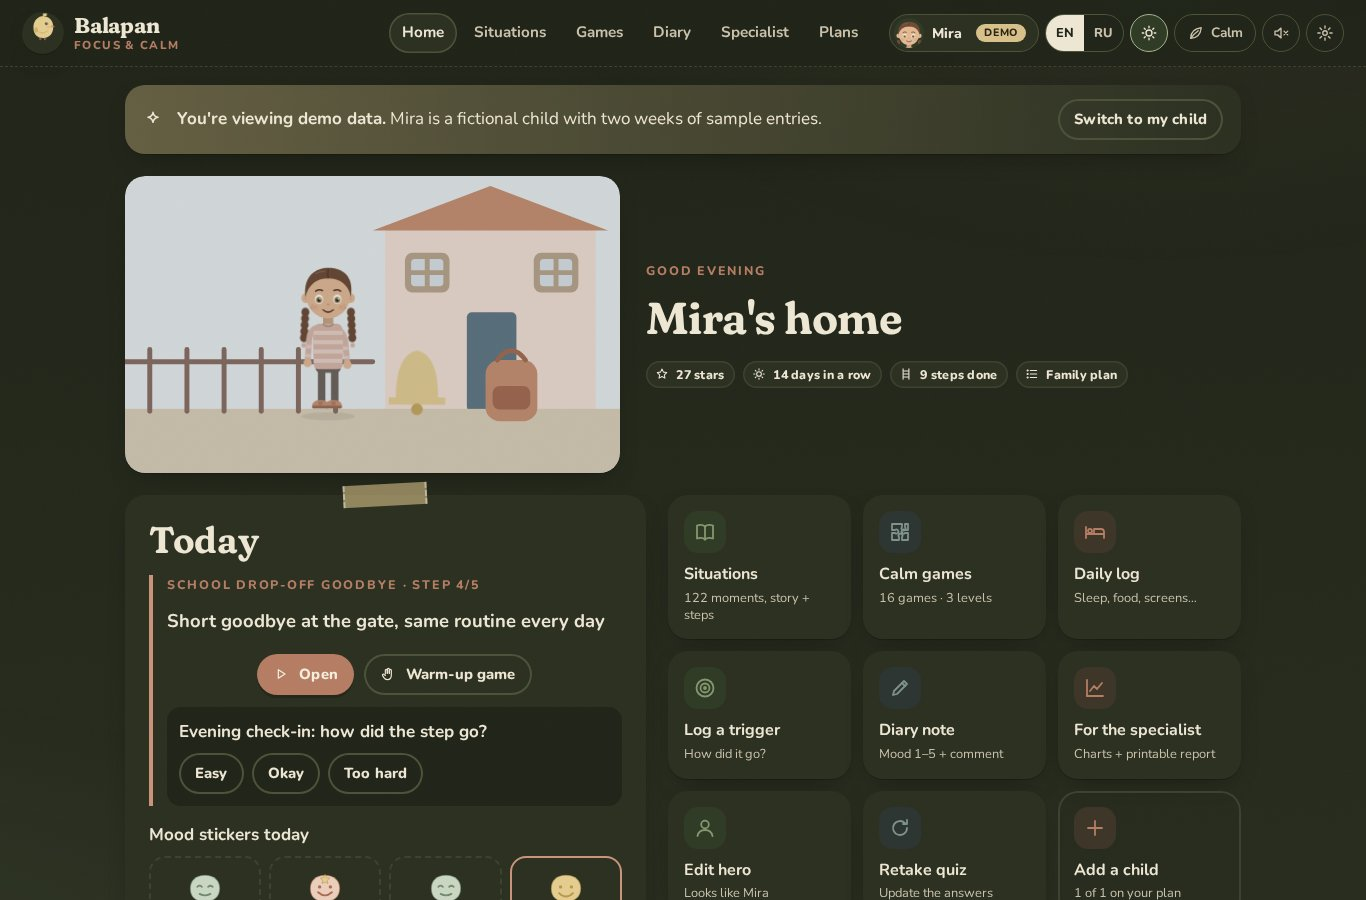
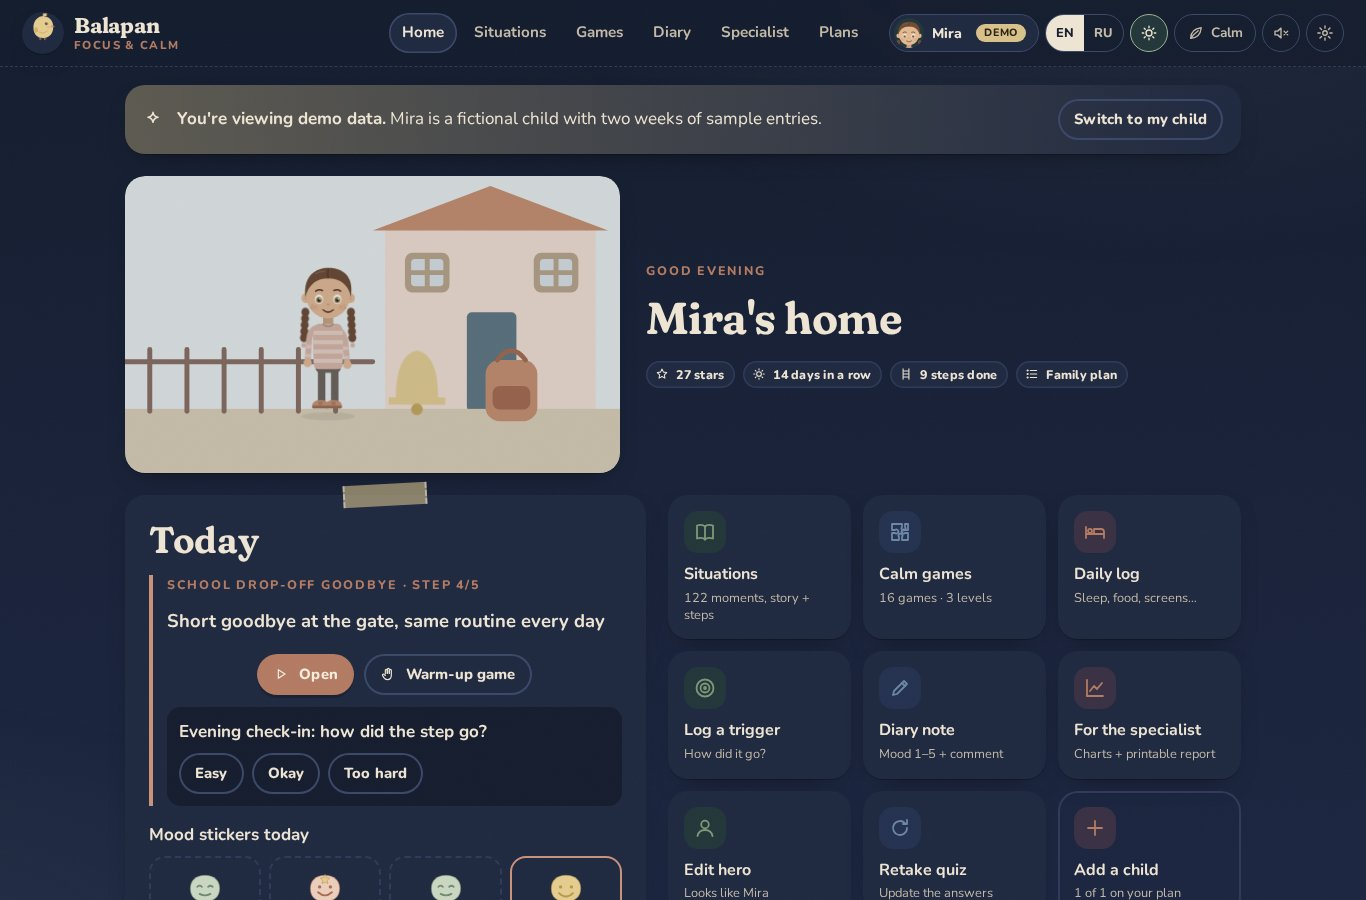
Dark theme back to midnight navy (palette from 4c464c1), README and theme-color restored; retake dark screenshots

diff --git a/balapan-single.html b/balapan-single.html
@@ -866,7 +866,7 @@ html.calm .mc-in{transition:none}
 <style data-src="css/v2.css">
 /* ==========================================================
    Balapan v2 — new screens, scenes, charts, mobile tab bar,
-   game levels and the dark (deep olive) theme.
+   game levels and the dark (midnight navy) theme.
    ========================================================== */
 .hidden{display:none !important}
 .small{font-size:.88rem}
@@ -1261,43 +1261,43 @@ input[type=range]{accent-color:var(--clay-deep); width:100%}
 .fact-row{display:flex; gap:10px}
 
 /* ==========================================================
-   DARK THEME — deep olive / dark moss (not navy, not black).
-   Muted accents: soft clay, sage, warm oat text. No neon.
+   DARK THEME — deep midnight navy (not charcoal).
+   Muted accents: dusty clay, soft sage, oat text. No neon.
    ========================================================== */
 html.dark{
   color-scheme:dark;
-  --oat:#1f2318;          /* page background: deep olive */
-  --paper:#2a2f20;        /* surfaces: slightly lighter moss */
-  --sand:#353b28;
-  --sand-deep:#4a5238;
-  --line:#3b412f;
-  --ink:#EDE6D3;          /* warm oat text */
-  --ink-soft:#C9C1AA;
-  --ink-faint:#9C9C85;
-  --clay:#C9937A; --clay-deep:#B47C63; --clay-soft:#3c3426;
-  --sage:#A3B48F; --sage-deep:#83976F; --sage-soft:#2f3a25;
-  --dusty:#9FB0A8; --dusty-deep:#7E918A; --dusty-soft:#2b3430;
+  --oat:#141c2e;          /* page background */
+  --paper:#1e2840;        /* surfaces: slightly lighter navy */
+  --sand:#2a3654;
+  --sand-deep:#3a4868;
+  --line:#2e3a58;
+  --ink:#EDE4D3;          /* oat text */
+  --ink-soft:#C2B8A7;
+  --ink-faint:#8D92A6;
+  --clay:#C9917A; --clay-deep:#B27A62; --clay-soft:#3a3044;
+  --sage:#9CB297; --sage-deep:#7C9878; --sage-soft:#22363a;
+  --dusty:#8EA5BF; --dusty-deep:#6C86A3; --dusty-soft:#233150;
   --butter:#D8C08A; --butter-deep:#B99C5C;
   --rose:#C7A296;
-  --shadow-paper:0 1px 0 rgba(10,12,6,.3), 0 10px 28px -16px rgba(8,10,4,.7);
-  --shadow-soft:0 10px 30px -16px rgba(8,10,4,.75);
+  --shadow-paper:0 1px 0 rgba(0,0,0,.25), 0 10px 28px -16px rgba(0,0,0,.65);
+  --shadow-soft:0 10px 30px -16px rgba(0,0,0,.7);
 }
-html.dark body{background:#1f2318; background:linear-gradient(180deg,#1f2318 0%, #262b1d 100%) fixed}
+html.dark body{background:#141c2e; background:linear-gradient(180deg,#141c2e 0%, #1b2540 100%) fixed}
 html.dark body::before{opacity:.10; mix-blend-mode:screen}
-html.dark body::after{background:radial-gradient(1100px 600px at 85% -10%, rgba(201,147,122,.07), transparent 60%), radial-gradient(900px 500px at -10% 110%, rgba(163,180,143,.08), transparent 60%)}
-html.dark .topbar{background:rgba(31,35,24,.93) !important; border-color:var(--line) !important}
-html.dark .btn{--fg:#F4EEDD}
+html.dark body::after{background:radial-gradient(1100px 600px at 85% -10%, rgba(142,165,191,.10), transparent 60%), radial-gradient(900px 500px at -10% 110%, rgba(156,178,151,.08), transparent 60%)}
+html.dark .topbar{background:rgba(20,28,46,.92) !important; border-color:var(--line) !important}
+html.dark .btn{--fg:#F4ECDD}
 html.dark .btn.ghost{--fg:var(--ink)}
-html.dark .btn:not(.ghost):not(.clay):not(.sage):not(.dusty):not(.paper){--bg:#EDE6D3; --fg:#1f2318}
-html.dark .seg button[aria-pressed="true"], html.dark .langsw button[aria-pressed="true"], html.dark .d-tabs [aria-selected="true"]{background:var(--ink); color:#1f2318}
-html.dark .chip-both{background:#343a27}
-html.dark .stage{background:linear-gradient(#2a2f20,#252a1c)}
-html.dark .stage-memory{background:linear-gradient(#2a2f20,#252a1c)}
-html.dark .kb-k{box-shadow:0 3px 0 #15180f}
+html.dark .btn:not(.ghost):not(.clay):not(.sage):not(.dusty):not(.paper){--bg:#EDE4D3; --fg:#141c2e}
+html.dark .seg button[aria-pressed="true"], html.dark .langsw button[aria-pressed="true"], html.dark .d-tabs [aria-selected="true"]{background:var(--ink); color:#141c2e}
+html.dark .chip-both{background:#2a2a42}
+html.dark .stage{background:linear-gradient(#1e2840,#1a233a)}
+html.dark .stage-memory{background:linear-gradient(#1e2840,#1a233a)}
+html.dark .kb-k{box-shadow:0 3px 0 #0f1626}
 html.dark .kb-k.hint{color:#2b2414}
-html.dark .sheet-bg{background:rgba(12,14,8,.6)}
-html.dark .toast{background:#EDE6D3; color:#1f2318}
-html.dark .tabbar{background:#23281b; box-shadow:0 -8px 24px -18px rgba(5,6,3,.85)}
+html.dark .sheet-bg{background:rgba(8,12,22,.6)}
+html.dark .toast{background:#EDE4D3; color:#141c2e}
+html.dark .tabbar{background:#18213a; box-shadow:0 -8px 24px -18px rgba(0,0,0,.8)}
 html.dark .df-pic{filter:brightness(.88)}
 html.dark .scene{filter:brightness(.9) saturate(.9)}
 html.dark .demo-tag{background:#D8C08A; color:#2b2414}
@@ -5276,7 +5276,7 @@ var BF = window.BF = window.BF || {};
     var s = f().settings;
     html.classList.toggle("calm", !!s.calm);
     html.classList.toggle("dark", s.theme==="dark");
-    var m = document.querySelector('meta[name="theme-color"]'); if(m) m.setAttribute("content", s.theme==="dark" ? "#1f2318" : "#F3EBDD");
+    var m = document.querySelector('meta[name="theme-color"]'); if(m) m.setAttribute("content", s.theme==="dark" ? "#141c2e" : "#F3EBDD");
   }
   BF.applySettings = applySettings;
   function bind(){

diff --git a/css/v2.css b/css/v2.css
@@ -1,6 +1,6 @@
 /* ==========================================================
    Balapan v2 — new screens, scenes, charts, mobile tab bar,
-   game levels and the dark (deep olive) theme.
+   game levels and the dark (midnight navy) theme.
    ========================================================== */
 .hidden{display:none !important}
 .small{font-size:.88rem}
@@ -395,43 +395,43 @@ input[type=range]{accent-color:var(--clay-deep); width:100%}
 .fact-row{display:flex; gap:10px}
 
 /* ==========================================================
-   DARK THEME — deep olive / dark moss (not navy, not black).
-   Muted accents: soft clay, sage, warm oat text. No neon.
+   DARK THEME — deep midnight navy (not charcoal).
+   Muted accents: dusty clay, soft sage, oat text. No neon.
    ========================================================== */
 html.dark{
   color-scheme:dark;
-  --oat:#1f2318;          /* page background: deep olive */
-  --paper:#2a2f20;        /* surfaces: slightly lighter moss */
-  --sand:#353b28;
-  --sand-deep:#4a5238;
-  --line:#3b412f;
-  --ink:#EDE6D3;          /* warm oat text */
-  --ink-soft:#C9C1AA;
-  --ink-faint:#9C9C85;
-  --clay:#C9937A; --clay-deep:#B47C63; --clay-soft:#3c3426;
-  --sage:#A3B48F; --sage-deep:#83976F; --sage-soft:#2f3a25;
-  --dusty:#9FB0A8; --dusty-deep:#7E918A; --dusty-soft:#2b3430;
+  --oat:#141c2e;          /* page background */
+  --paper:#1e2840;        /* surfaces: slightly lighter navy */
+  --sand:#2a3654;
+  --sand-deep:#3a4868;
+  --line:#2e3a58;
+  --ink:#EDE4D3;          /* oat text */
+  --ink-soft:#C2B8A7;
+  --ink-faint:#8D92A6;
+  --clay:#C9917A; --clay-deep:#B27A62; --clay-soft:#3a3044;
+  --sage:#9CB297; --sage-deep:#7C9878; --sage-soft:#22363a;
+  --dusty:#8EA5BF; --dusty-deep:#6C86A3; --dusty-soft:#233150;
   --butter:#D8C08A; --butter-deep:#B99C5C;
   --rose:#C7A296;
-  --shadow-paper:0 1px 0 rgba(10,12,6,.3), 0 10px 28px -16px rgba(8,10,4,.7);
-  --shadow-soft:0 10px 30px -16px rgba(8,10,4,.75);
+  --shadow-paper:0 1px 0 rgba(0,0,0,.25), 0 10px 28px -16px rgba(0,0,0,.65);
+  --shadow-soft:0 10px 30px -16px rgba(0,0,0,.7);
 }
-html.dark body{background:#1f2318; background:linear-gradient(180deg,#1f2318 0%, #262b1d 100%) fixed}
+html.dark body{background:#141c2e; background:linear-gradient(180deg,#141c2e 0%, #1b2540 100%) fixed}
 html.dark body::before{opacity:.10; mix-blend-mode:screen}
-html.dark body::after{background:radial-gradient(1100px 600px at 85% -10%, rgba(201,147,122,.07), transparent 60%), radial-gradient(900px 500px at -10% 110%, rgba(163,180,143,.08), transparent 60%)}
-html.dark .topbar{background:rgba(31,35,24,.93) !important; border-color:var(--line) !important}
-html.dark .btn{--fg:#F4EEDD}
+html.dark body::after{background:radial-gradient(1100px 600px at 85% -10%, rgba(142,165,191,.10), transparent 60%), radial-gradient(900px 500px at -10% 110%, rgba(156,178,151,.08), transparent 60%)}
+html.dark .topbar{background:rgba(20,28,46,.92) !important; border-color:var(--line) !important}
+html.dark .btn{--fg:#F4ECDD}
 html.dark .btn.ghost{--fg:var(--ink)}
-html.dark .btn:not(.ghost):not(.clay):not(.sage):not(.dusty):not(.paper){--bg:#EDE6D3; --fg:#1f2318}
-html.dark .seg button[aria-pressed="true"], html.dark .langsw button[aria-pressed="true"], html.dark .d-tabs [aria-selected="true"]{background:var(--ink); color:#1f2318}
-html.dark .chip-both{background:#343a27}
-html.dark .stage{background:linear-gradient(#2a2f20,#252a1c)}
-html.dark .stage-memory{background:linear-gradient(#2a2f20,#252a1c)}
-html.dark .kb-k{box-shadow:0 3px 0 #15180f}
+html.dark .btn:not(.ghost):not(.clay):not(.sage):not(.dusty):not(.paper){--bg:#EDE4D3; --fg:#141c2e}
+html.dark .seg button[aria-pressed="true"], html.dark .langsw button[aria-pressed="true"], html.dark .d-tabs [aria-selected="true"]{background:var(--ink); color:#141c2e}
+html.dark .chip-both{background:#2a2a42}
+html.dark .stage{background:linear-gradient(#1e2840,#1a233a)}
+html.dark .stage-memory{background:linear-gradient(#1e2840,#1a233a)}
+html.dark .kb-k{box-shadow:0 3px 0 #0f1626}
 html.dark .kb-k.hint{color:#2b2414}
-html.dark .sheet-bg{background:rgba(12,14,8,.6)}
-html.dark .toast{background:#EDE6D3; color:#1f2318}
-html.dark .tabbar{background:#23281b; box-shadow:0 -8px 24px -18px rgba(5,6,3,.85)}
+html.dark .sheet-bg{background:rgba(8,12,22,.6)}
+html.dark .toast{background:#EDE4D3; color:#141c2e}
+html.dark .tabbar{background:#18213a; box-shadow:0 -8px 24px -18px rgba(0,0,0,.8)}
 html.dark .df-pic{filter:brightness(.88)}
 html.dark .scene{filter:brightness(.9) saturate(.9)}
 html.dark .demo-tag{background:#D8C08A; color:#2b2414}

diff --git a/js/app.js b/js/app.js
@@ -48,7 +48,7 @@ var BF = window.BF = window.BF || {};
     var s = f().settings;
     html.classList.toggle("calm", !!s.calm);
     html.classList.toggle("dark", s.theme==="dark");
-    var m = document.querySelector('meta[name="theme-color"]'); if(m) m.setAttribute("content", s.theme==="dark" ? "#1f2318" : "#F3EBDD");
+    var m = document.querySelector('meta[name="theme-color"]'); if(m) m.setAttribute("content", s.theme==="dark" ? "#141c2e" : "#F3EBDD");
   }
   BF.applySettings = applySettings;
   function bind(){

diff --git a/README.md b/README.md
@@ -45,7 +45,7 @@ It runs from `file://`: data lives in classic JS files (no `fetch`, no ES module
 | **Mood stickers** | 8 hand-drawn faces by time of day (morning, midday, after school, evening), with day and week views. |
 | **Specialist tab** | Per-child summary, sleep-vs-mood chart, scatter with a trend line and Pearson *r*, trigger outcomes by day, screen time vs mood, a correlation table, a triggers table, moods by time of day, a daily-log table, diary entries and plans. Filters: 7/14/30 days, all or a custom range, plus specialist role and name. **Printable A4 report** in the chosen language ([EN sample](docs/sample-report-en.pdf), [RU sample](docs/sample-report-ru.pdf)), and per-child **JSON export/import**. |
 | **Demo child** | "Mira", clearly labeled *demo*, with 2 weeks of realistic data. It's seeded on first launch but **not** active, so the first screen is still your own quiz. You can **clear the demo data** in Settings or Children (and restore it). |
-| **Look** | The hand-crafted muted palette stays. Light "oat" theme plus a **dark theme on deep olive / dark moss** (#1f2318 → #262b1d, lighter moss surfaces, warm oat text, soft clay and sage accents, no neon, no pure black). Calm mode, sound off by default. |
+| **Look** | The hand-crafted muted palette stays. Light "oat" theme plus a **dark theme on deep midnight navy** (#141c2e → #1b2540, lighter navy surfaces, oat text, dusty clay and soft sage accents, no neon). Calm mode, sound off by default. |
 | **Mobile** | A fully responsive website (no PWA, no install prompt): bottom tab bar, bottom-sheet dialogs, full-screen games. |
 
 ### The games
@@ -98,7 +98,7 @@ balapan-focus-calm/
 ├── index.html               # shell: header, tab bar, footer, print area, script list
 ├── balapan-single.html      # generated single-file build (python3 build-single.py)
 ├── build-single.py
-├── css/  base · components · screens · games · v2 (new screens, scenes, dark olive theme, mobile) · print (A4 report)
+├── css/  base · components · screens · games · v2 (new screens, scenes, dark navy theme, mobile) · print (A4 report)
 ├── js/
 │   ├── i18n/i18n.js         # L(en, ru), language switch, plurals, dates
 │   ├── data/                # situations.js, situations-2.js, situations-3.js (122), content.js, demo.js
@@ -131,7 +131,7 @@ $0 (3 plans, 1 child) · **$12.99/month** (2 children) · **$79.99/year** (up to
 | ![Daily log](docs/screenshots/desktop-10-daily-log.jpg) | ![Trigger log](docs/screenshots/desktop-11-trigger-log.jpg) |
 | Daily log: sleep, food, day factors | Trigger outcome log + adaptive steps |
 | ![Specialist](docs/screenshots/desktop-19-dark-specialist.jpg) | ![A4 report](docs/screenshots/desktop-23-report-a4-p1.jpg) |
-| Specialist tab (dark olive theme) | Printable A4 report |
+| Specialist tab (dark navy theme) | Printable A4 report |
 | ![Settings](docs/screenshots/desktop-14-settings-voice.jpg) | ![Russian](docs/screenshots/desktop-20-ru-home.jpg) |
 | Voice settings | Russian interface |
 
@@ -174,7 +174,7 @@ All screenshots are in [`docs/screenshots/`](docs/screenshots/).
 - **Наклейки настроения** по времени суток, вид за день и за неделю.
 - **Вкладка для специалиста:** графики (сон и настроение, точечная диаграмма с линией тренда и корреляцией, исходы триггеров, экраны и настроение), таблицы корреляций, триггеров и дневника дня. Фильтры по датам, **отчёт A4 для печати** на выбранном языке, экспорт и импорт JSON.
 - **Демо-ребёнок «Мира»** с данными за 2 недели. Он помечен как демо и не мешает первому запуску; удалить его можно в настройках.
-- **Тёмная тема** на глубоком оливковом / тёмном моховом (#1f2318–#262b1d), приглушённые акценты (мягкая глина, шалфей, тёплый овсяный текст), без неона. Светлая тема — прежняя, приглушённая.
+- **Тёмная тема** на глубоком ночном синем (#141c2e–#1b2540), приглушённые акценты (пыльная глина, мягкий шалфей, овсяный текст), без неона. Светлая тема — прежняя, приглушённая.
 - **Мобильная версия** — обычный адаптивный сайт (не PWA): нижняя панель вкладок, диалоги снизу, игры на весь экран.
 
 ### Этика
